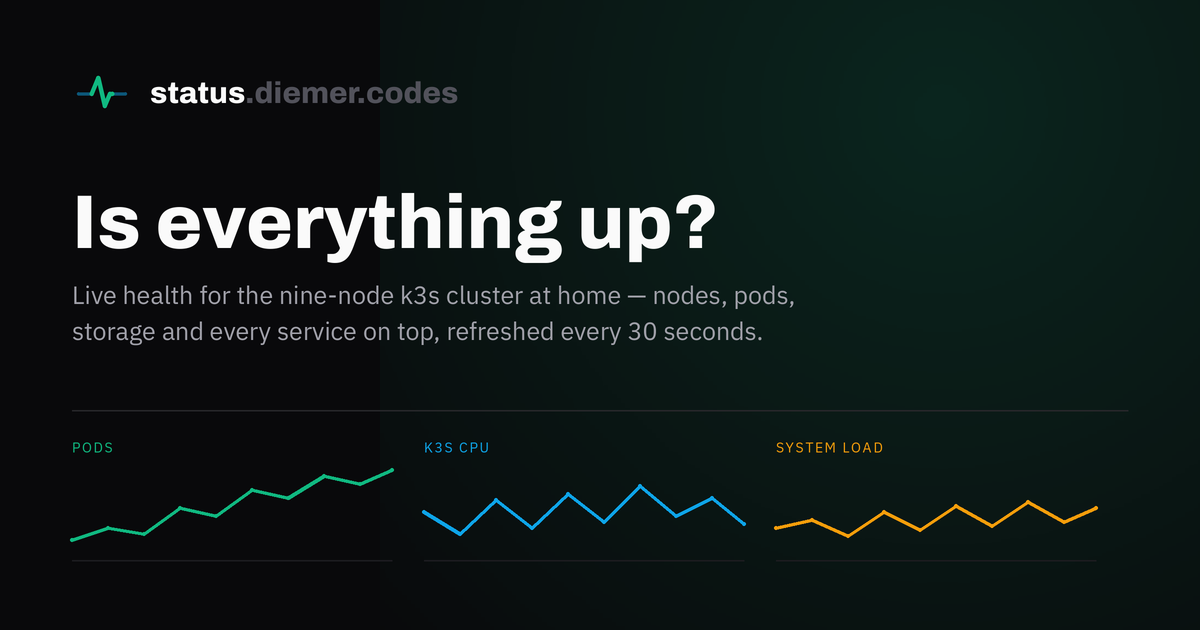
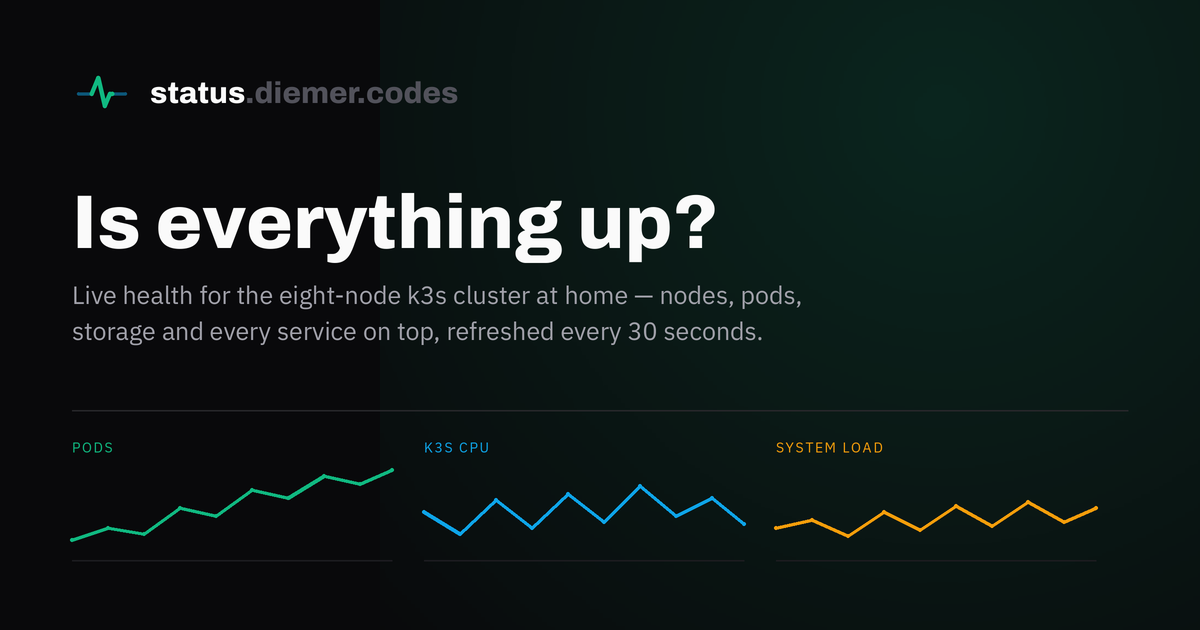
cluster: deprecate zachd-ubuntu-laptop-4, fleet is eight nodes
The Grunt Chromebook (A4-9120C, 2 cores, 2.27GiB allocatable) wedged at
11:55 on 2026-08-20 — kernel alive and answering ICMP, tailscaled and
k3s-agent both dead. Drained, agent stopped and disabled, node deleted.

It took SSO down with it, which is the part worth recording. Authelia is
one replica on a local-path PVC, and local-path PVs carry a node affinity,
so the volume had married Authelia to whichever node the scheduler happened
to pick at first provision — this one. When it wedged there was nowhere to
reschedule: 6 of 9 nodes failed the PV's node affinity outright. auth was
503 for roughly 35 minutes.

  auth/authelia   pinned to zachd-ubuntu-2 via a new nodeSelector, and the
                  reasoning written into the template. This is a deliberate
                  exception to the no-node-binding rule: local-path pins
                  this pod either way, so the rule bought no portability
                  here — it only meant the scheduler chose the node
                  silently, once, and chose a 4GB Chromebook.

The SQLite was recovered off the dead node rather than restored from
Friday's k8up snapshot, so nothing was lost: sha256 verified identical at
every hop, integrity_check ok, both TOTP enrolments intact. (The snapshot
would have cost ~19h, not the 6 days the weekly schedule implies — the DB
had not been written since 2026-08-14 20:56.)

The rest is the node count, 9 -> 8, with derived figures recomputed:
[…]

Changed region(s): [[0.2158, 0.4524, 0.6783, 0.4825]]

diff --git a/scripts/gen-brand.py b/scripts/gen-brand.py
@@ -162,7 +162,7 @@ STATUS_SVG = """<svg xmlns="http://www.w3.org/2000/svg" viewBox="0 0 64 64" role
     page's own series colours (green pods, blue k3s).
 
     Two shapes on a tile, deliberately. Anything with more parts — a rack, a
-    ring of nine nodes — is a smudge at 16px, and a favicon that only works at
+    ring of eight nodes — is a smudge at 16px, and a favicon that only works at
     180px is a favicon that only works where it doesn't matter.
 
     White-on-dark-tile rather than currentColor, so this is the same object in
@@ -212,7 +212,7 @@ def status_card(path: str) -> None:
     line(draw, px, 72, 248, "Is everything up?", brand.display(px(76)), hex_rgb(STATUS_FG))
 
     sub = brand.body(px(25))
-    line(draw, px, 72, 304, "Live health for the nine-node k3s cluster at home — nodes, pods,",
+    line(draw, px, 72, 304, "Live health for the eight-node k3s cluster at home — nodes, pods,",
          sub, hex_rgb(STATUS_MUTED))
     line(draw, px, 72, 340, "storage and every service on top, refreshed every 30 seconds.",
          sub, hex_rgb(STATUS_MUTED))

diff --git a/README.md b/README.md
@@ -1,7 +1,7 @@
 # selfhosted
 
 Helm charts and install scripts for the services running on my home k3s
-cluster (9 nodes: 3 control-plane, 6 workers). External exposure goes
+cluster (8 nodes: 3 control-plane, 5 workers). External exposure goes
 through [`infra/traefik/`](infra/traefik/) — the single ingress choke point,
 its ACME DNS-01 certresolver holding a `*.zachd.duckdns.org` wildcard cert
 (no cert-manager involved), and its access log — with the DuckDNS side of
@@ -62,7 +62,7 @@ pins mean "what shipped", and only `scripts/sync-submodules.sh` moves them.
 | [`infra/duckdns/`](infra/duckdns/) | **Load-bearing for the whole cluster.** Keeps `zachd.duckdns.org` pointed at the house (updater CronJob) and owns the DuckDNS token that Traefik's certresolver reads — copied into `kube-system` because a `secretKeyRef` can't cross namespaces. Moved out of the sibling `talaria` project. | [infra/duckdns/README](infra/duckdns/README.md) |
 | [`infra/alloy/`](infra/alloy/) | The telemetry pipeline. **Two releases from one directory:** a DaemonSet shipping logs (Traefik access log, cloudflared, Authelia, CrowdSec detections, the egress proxy, plus pods labelled from their own `ingress.enabled`) and nine Prometheus scrape jobs, and a one-replica Deployment running blackbox probes of the public hostnames. Values-only against the upstream chart; no PVC, so nothing is pinned to a node. Every target is filtered to the local node so each is handled exactly once — which is why the DaemonSet must tolerate every taint. | [infra/alloy/README](infra/alloy/README.md) |
 | [`infra/grafana-dashboards/`](infra/grafana-dashboards/) | Four Grafana dashboards and thirteen alert rules as code, pushed to Grafana Cloud over its HTTP API by `upgrade.sh`. Deploys nothing to the cluster. Datasource UIDs are resolved at push time rather than committed; `--verify` runs every panel query against live data, because a dashboard of empty panels reads as "nothing is happening" rather than "this query is wrong". Alerts evaluate but route to a deliberate dead end until wired to sms-relay. | [infra/grafana-dashboards/README](infra/grafana-dashboards/README.md) |
-| [`infra/node-exporter/`](infra/node-exporter/) | Host CPU/memory/disk/NIC metrics for all nine nodes. Values-only, DaemonSet, `hostNetwork` — which is not optional, since `/proc/net` resolves inside the reading process's netns and a cluster-network pod would report its own veth. The **only** source of visibility for Minecraft `:25565` and Jellyfin `:30096`, neither of which traverses Traefik. Collectors are opt-in to hold the series budget. | [infra/node-exporter/README](infra/node-exporter/README.md) |
+| [`infra/node-exporter/`](infra/node-exporter/) | Host CPU/memory/disk/NIC metrics for all eight nodes. Values-only, DaemonSet, `hostNetwork` — which is not optional, since `/proc/net` resolves inside the reading process's netns and a cluster-network pod would report its own veth. The **only** source of visibility for Minecraft `:25565` and Jellyfin `:30096`, neither of which traverses Traefik. Collectors are opt-in to hold the series budget. | [infra/node-exporter/README](infra/node-exporter/README.md) |
 | [`infra/kube-state-metrics/`](infra/kube-state-metrics/) | Kubernetes object state as metrics: CronJob last-success, backup freshness, PVC fill denominators, pod restarts, CrashLoop reasons. Unfiltered it is ~15–20k series against a 10k free tier, so the collector and metric allowlists are the whole design — `upgrade.sh` fails the deploy above 3k. | [infra/kube-state-metrics/README](infra/kube-state-metrics/README.md) |
 | [`infra/ingress-policy/`](infra/ingress-policy/) | **Load-bearing for the whole cluster.** A `ValidatingAdmissionPolicy` requiring every Ingress in every namespace to name `ingressClassName: traefik`, pin `router.entrypoints: websecure`, and either name a certresolver or declare that TLS ends at the Cloudflare edge. No pods — the API server evaluates it. Exists because tenants from other repos (whatnowgg, talaria, money) can't see this repo's conventions. Advisory (`Warn`) until the warnings go quiet. | [infra/ingress-policy/README](infra/ingress-policy/README.md) |
 | [`infra/cluster-status/`](infra/cluster-status/) | **Tailnet-only** dashboard at `status.zachd.duckdns.org` — nodes, CPU/RAM/disk broken down pods-vs-k3s-vs-system, pod tables, deployment health, warnings. A read-only collector sidecar writes JSON; nginx serves it as a static page, so traffic never touches the k8s API. Was public at `status.diemer.codes` until the page's *content* — node names, pod inventory, raw event text — was weighed rather than just its API safety. Ported from talaria's authed `/admin/cluster`. | [infra/cluster-status/README](infra/cluster-status/README.md) |
@@ -156,7 +156,7 @@ pins mean "what shipped", and only `scripts/sync-submodules.sh` moves them.
 
   *Spread is `DoNotSchedule`, not a preference.* A `preferred` podAntiAffinity
   is a hint the scheduler may decline, so "the replicas are spread" becomes a
-  prediction rather than a property — and it fails silently. With 9 nodes and
+  prediction rather than a property — and it fails silently. With 8 nodes and
   2–3 replicas nothing makes spreading unsatisfiable. Always include
   `matchLabelKeys: [pod-template-hash]`, or a rollout measures its surge pod
   against the pods it is replacing, finds every node full, and stalls.

diff --git a/plans/network-segmentation.md b/plans/network-segmentation.md
@@ -10,13 +10,13 @@ bottom.
 
 It lives in this repo because the cutover changes things in this repo
 (`democratic-csi` targets, the sms-relay gateway URL, a new LAN NodePort) and
-because the constraints that shaped it — svclb answering on all nine node IPs,
+because the constraints that shaped it — svclb answering on all eight node IPs,
 DuckDNS in `tailnet` mode, iSCSI throughput — are cluster facts, not networking
 trivia.
 
 ## Why
 
-Every device in the house is on one flat `192.168.4.0/22`: nine k3s nodes, the
+Every device in the house is on one flat `192.168.4.0/22`: eight k3s nodes, the
 NAS, the personal laptops and phones, the TVs, and the Android handset that
 `infra/sms-relay` drives. Nothing is stopping a compromised pod that escapes to
 its node from reaching a personal machine, and nothing is stopping the handset
@@ -29,7 +29,7 @@ Two things are deliberately *not* goals:
   direct IP from both the cluster and personal devices, without Tailscale in
   the path, because NFS and iSCSI throughput is the point of it.
 - **Isolating nodes from each other.** Flannel VXLAN and etcd want one L2
-  segment with low latency. All nine nodes stay together.
+  segment with low latency. All eight nodes stay together.
 
 ## Current state, as measured
 
@@ -37,7 +37,7 @@ Two things are deliberately *not* goals:
 |---|---|
 | LAN | `192.168.4.0/22`, gateway `192.168.4.1` |
 | IPv6 | GUA `2001:5a8:4a45:6100::/64` (Sonic) + ULA `fd35:ace4:a929:1::/64`, router at `::1` on both |
-| Nodes | `.26 .28 .29 .30 .31 .32 .33 .37 .39` — all wired, single NIC, all negotiating 1000BASE-T |
+| Nodes | `.26 .28 .29 .30 .31 .32 .37 .39` — all wired, single NIC, all negotiating 1000BASE-T |
 | NAS | `192.168.4.36` (TrueNAS SCALE) — NFS, iSCSI, SMB |
 | Handset | `192.168.4.24`, wifi |
 | Router | eero Max 7 |
@@ -74,7 +74,7 @@ So this needs hardware, and the unmanaged switch has to go with it.
 | Part | Choice | Note |
 |---|---|---|
 | Gateway | UniFi Cloud Gateway Ultra (~$129) or Max (~$199) | VLANs, inter-VLAN firewall rules, per-VLAN IPv6 from a delegated prefix. RB5009 (~$219) or OPNsense on a 2-NIC mini-PC are equivalent-capability alternatives. |
-| Switch | 802.1q managed, ~14+ ports | Nine nodes, the NAS trunk, the handset, the eero uplinks. UniFi Standard 16 (~$179), or a pair of TL-SG108E at ~$25 each. |
+| Switch | 802.1q managed, ~14+ ports | Eight nodes, the NAS trunk, the handset, the eero uplinks. UniFi Standard 16 (~$179), or a pair of TL-SG108E at ~$25 each. |
 | Wifi | Keep the eeros, in bridge mode | Uplink port tagged to VLAN 20. All wifi becomes trusted. Loses eero's guest network and app features. |
 | Handset | USB-C → Ethernet (~$15) | See below — this is the piece that makes VLAN-capable APs unnecessary. |
 
@@ -85,12 +85,12 @@ gateway to the WAN plan, not to the eero Max 7's 10G ports.
 
 Three segments. The cluster keeps the subnet it already has — **renumber
 people, not nodes**. Personal devices are DHCP and do not care where they live;
-the cluster has nine node addresses, NFS exports pinned by IP, svclb bound to
+the cluster has eight node addresses, NFS exports pinned by IP, svclb bound to
 every node address, and etcd.
 
 | VLAN | Subnet | Members |
 |---|---|---|
-| 1 (existing, untagged) | `192.168.4.0/22` | nine k3s nodes + NAS |
+| 1 (existing, untagged) | `192.168.4.0/22` | eight k3s nodes + NAS |
 | 20 trusted | `192.168.20.0/24` | laptops, desktop, phones, TVs, bridged eeros |
 | 30 untrusted | `192.168.30.0/24` | the SMS relay handset |
 
@@ -167,7 +167,7 @@ No NAS access. That is the whole blast radius.
 Parking it with the cluster would save those two rules, and it is the reasonable
 scope cut if inter-VLAN routing turns out to be friction. But L2 adjacency is
 not a rule you can narrow: it would put an unpatched consumer Android next to
-all nine nodes and `192.168.4.36` — NFS exports, the iSCSI portal, SMB, the
+all eight nodes and `192.168.4.36` — NFS exports, the iSCSI portal, SMB, the
 kubelets, etcd on the three control planes, and Headlamp on `:30100`, which
 answers on every node IP and whose token `infra/headlamp/README.md` describes
 as a full cluster credential. If this cut is ever taken, turn that NodePort off.
@@ -199,7 +199,7 @@ service, with the Android gateway app pointed at
   `Host` header, so the Ingress path cannot be reused as-is;
 - no Tailscale, no DuckDNS, no DNS at all.
 
-Pin it to one stable node IP — svclb answers on all nine, and the app holds a
+Pin it to one stable node IP — svclb answers on all eight, and the app holds a
 single URL.
 
 ## Firewall matrix
@@ -222,7 +222,7 @@ wide-open bypass, and every host here holds a routable GUA.
 
 ## The tailnet bypass
 
-All nine nodes, the NAS, and the personal machines are one flat tailnet with
+All eight nodes, the NAS, and the personal machines are one flat tailnet with
 `/32` routes and no ACL restrictions. **A compromised pod that escapes to a node
 reaches the laptops over `100.x` regardless of any VLAN boundary.**
 

diff --git a/infra/alloy/README.md b/infra/alloy/README.md
@@ -152,7 +152,7 @@ cluster-singletons like kube-state-metrics, which need no leader election
 because whichever Alloy shares their node picks them up.
 
 > ⚠ **This is only correct because `controller.tolerations` puts a pod on every
-> node.** Before that toleration the DaemonSet ran on 8 of 9 — `zachd-ubuntu`
+> node.** Before that toleration the DaemonSet ran on 7 of 8 — `zachd-ubuntu`
 > carries the control-plane `NoSchedule` taint and is *not* empty (a CoreDNS
 > replica, both CSI node plugins). With locality filtering, a node without an
 > Alloy is a silent blind spot rather than a gap someone else covers. `upgrade.sh`
@@ -185,7 +185,7 @@ Each of the nine scrape jobs carries its own keep-list. Measured contributions:
 
 | Job | Series | Note |
 |---|---|---|
-| node-exporter | ~1,600 | ~180 of ~570 exported, ×9 nodes |
+| node-exporter | ~1,400 | ~180 of ~570 exported, ×8 nodes |
 | kube-state-metrics | ~2,000 | of 2,481 exported; `Running`/`Succeeded` phases dropped here |
 | Traefik | ~800 | `*_bucket` dropped |
 | CoreDNS, kubelet, cloudflared, k8up, Alloy, CrowdSec | ~700 | |

diff --git a/infra/egress-proxy/README.md b/infra/egress-proxy/README.md
@@ -201,7 +201,7 @@ Two things to check rather than assume once applied:
 | `dev/claude-workspace` Tailscale | Needs raw UDP to NAT-random peer ports. |
 | `infra/buildkit` | Bursty multi-GB registry pulls would dominate the exit's bandwidth for no reputation benefit. |
 | `discord/vocard` | YouTube blocks datacenter ASNs harder than residential ones — proxying makes playback worse. |
-| `infra/alloy` | DaemonSet telemetry from all 9 nodes; volume without benefit. |
+| `infra/alloy` | DaemonSet telemetry from all 8 nodes; volume without benefit. |
 
 ## Talaria (a different repo)
 

diff --git a/infra/cluster-status/README.md b/infra/cluster-status/README.md
@@ -226,7 +226,7 @@ those fields absent and only a per-interface list populated — so the read retu
 `None`, and **talaria's network column has always been blank**. Here the collector
 falls back to the busiest physical interface, skipping the overlay and tunnel
 devices (`flannel*`, `cni*`, `veth*`, `tailscale*`, …) whose traffic is already
-counted on the uplink. Rates now populate on all 9 nodes.
+counted on the uplink. Rates now populate on all 8 nodes.
 
 If talaria's page ever needs it, that fix is `iface_counters()` in the collector.
 

diff --git a/infra/node-exporter/README.md b/infra/node-exporter/README.md
@@ -59,7 +59,7 @@ because one unready pod out of ten is easy to miss.
 ## The series budget is the design
 
 Grafana Cloud's free tier caps **active series at 10k** for the whole stack.
-Default node-exporter is ~600–800 series per node; nine nodes would be 5–7k,
+Default node-exporter is ~600–800 series per node; eight nodes would be 5–6k,
 most of the budget, on one exporter.
 
 `--collector.disable-defaults` flips the model to opt-in, which is the version

diff --git a/infra/grafana-dashboards/README.md b/infra/grafana-dashboards/README.md
@@ -110,7 +110,7 @@ the systemd timers already text on failure.
 
 | Rule | Fires when |
 |---|---|
-| Node not Ready | fewer than 9 nodes Ready for 10m |
+| Node not Ready | fewer than 8 nodes Ready for 10m |
 | Node root filesystem above 85% | the most common way this cluster falls over |
 | Volume above 85% full | `local-path` volumes cannot be expanded — that one needs a migration, not a resize |
 | CronJob overdue | a schedule stopped advancing (see below) |

diff --git a/web/old-diemer-codes/README.md b/web/old-diemer-codes/README.md
@@ -149,7 +149,7 @@ First time:
 git submodule update --init web/old-diemer-codes/site
 docker login ghcr.io -u zdiemer          # PAT with write:packages
 ./build.sh
-# First push only: set the GHCR package visibility to Public, or all 9 nodes
+# First push only: set the GHCR package visibility to Public, or all 8 nodes
 # get ImagePullBackOff with a 401.
 ./upgrade.sh
 ```
